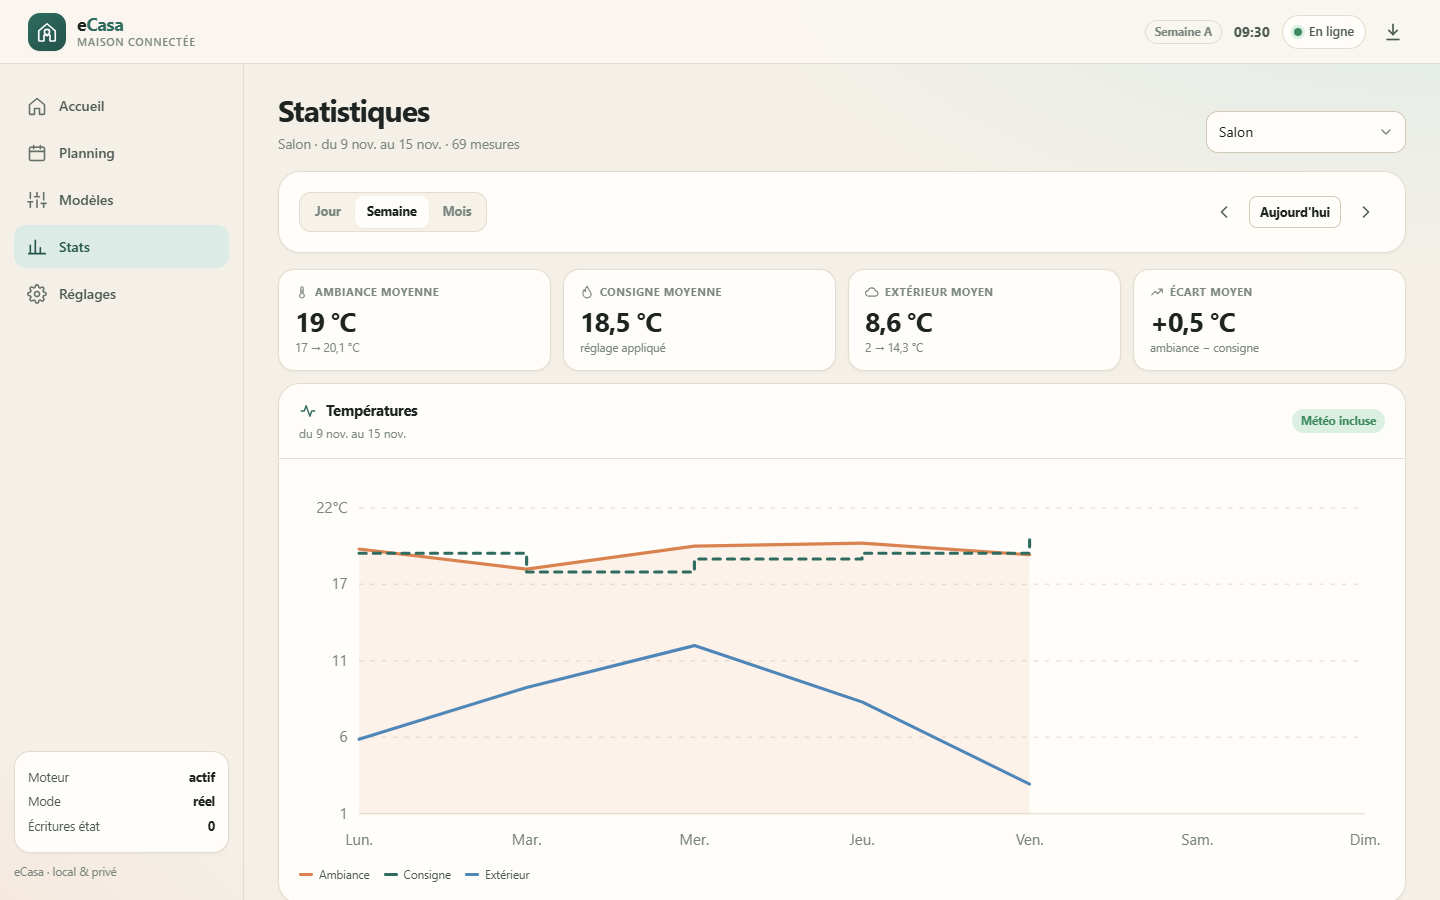
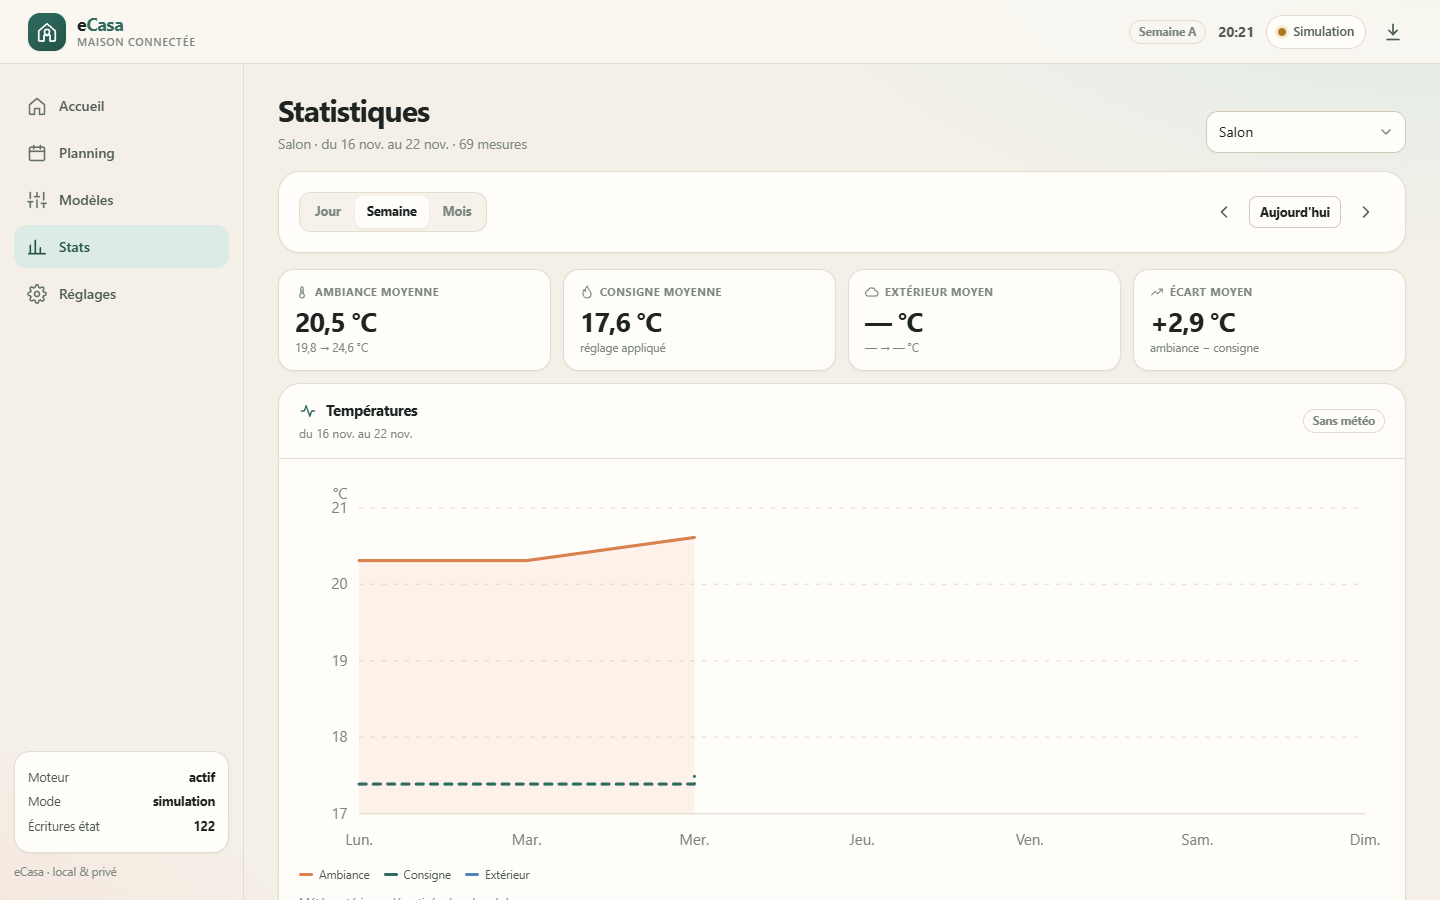
Docs: captures anonymes régénérées sur simulation + documentation alignée
- capture.mjs: 7e capture (calendrier d'accueil), attente du contenu Pronote, service worker neutralisé (rechargement en cours de capture), clip en coordonnées page + captureBeyondViewport (captures d'élément vides ou décalées avant)
- screenshots: 7 images régénérées sur instance de simulation (Salon/Bureau/Chambre, consommation fictive) — fin des données réelles (prénom, météo, conso) dans le README; home-calendar.png en nouveau
- screenshots/README.md: tailles, contenus et consignes de régénération à jour (avertissement config.json réel)
- README.md + docs: galerie et descriptions alignées sur les évolutions de la session (retour direct Pronote, À date, vue Année complète), balayage données personnelles effectué

diff --git a/README.md b/README.md
@@ -51,9 +51,9 @@ bonnes consignes.
 | **Schneider Wiser** | Découverte du hub sur le réseau local, lecture des plannings, import dans eCasa. |
 | **Autres systèmes** | Daikin (local), Bosch (contrôleur Smart Home), Netatmo et Mitsubishi (MELCloud) : lecture des appareils et envoi de consignes depuis Réglages → Appareils. |
 | **Planning** | Agenda 24 h par pièce, créneaux tactiles, modèles de semaine (enregistrés sur le serveur), copie A↔B, surcharges. |
-| **Pronote** | Import des semaines A et B, mise à jour quotidienne à l'heure choisie (ou désactivée), gestion de la garde alternée. |
+| **Pronote** | Import des semaines A et B, mise à jour quotidienne à l'heure choisie (ou désactivée), gestion de la garde alternée, option « Retour direct » pour les journées sans cours l'après-midi. |
 | **Météo** | Température extérieure Open-Meteo, sans clé d'API. |
-| **Statistiques** | Ambiance / consigne / extérieur, consommation électrique Enedis multi-années. |
+| **Statistiques** | Ambiance / consigne / extérieur, consommation électrique Enedis multi-années (vues jour, semaine, mois, année, option « À date »). |
 | **Journal** | Événements filtrables, recherche, export JSON. |
 | **Sauvegarde** | Export/import complet de l'état et des réglages (interface et scripts). |
 | **Accès distant** | Tailscale intégré (HTTPS, MagicDNS) et application Android (APK signé, accès direct avec VPN Tailscale). |
@@ -169,7 +169,7 @@ Guide détaillé : [docs/installation.md](docs/installation.md).
 | --- | --- |
 | [Installation](docs/installation.md) | Windows, Linux, Raspberry Pi, systemd, PWA, mise à jour, sauvegarde. |
 | [Configuration](docs/configuration.md) | `config.json`, réglages de l'interface, secrets, réseau, stockage. |
-| [Pronote](docs/pronote.md) | Compte, import, semaines A/B, garde alternée, mise à jour automatique. |
+| [Pronote](docs/pronote.md) | Compte, import, semaines A/B, garde alternée, retour direct, mise à jour automatique. |
 | [Équipements](docs/equipements.md) | Atlantic/Cozytouch, climatisation, Wiser, pièces et appareils. |
 | [API HTTP](docs/api.md) | Toutes les routes JSON et les règles de sécurité. |
 | [Dépannage](docs/depannage.md) | Symptômes courants et solutions. |
@@ -181,13 +181,19 @@ Guide détaillé : [docs/installation.md](docs/installation.md).
 | --- | --- | --- |
 | ![Accueil](docs/screenshots/home.png) | ![Planning](docs/screenshots/planning.png) | ![Statistiques](docs/screenshots/stats.png) |
 
-**Consommation électrique** — comparaison des mêmes périodes d'une année sur l'autre,
-via MyElectricalData (Enedis) : Les données sont mises en cache localement (`data/energy.json`) et, en cas d'indisponibilité MyElectricalData/Enedis, les dernières mesures connues restent affichées avec un avertissement.
+**Calendrier de la semaine** — ouvert depuis l'accueil (feuille « Planning · Pièce »),
+les blocs fusionnés remplissent toute leur zone :
+
+![Calendrier d'accueil](docs/screenshots/home-calendar.png)
+
+**Consommation électrique** — vues Jour, Semaine, Mois et Année, avec l'interrupteur
+« À date » : comparaison des mêmes périodes d'une année sur l'autre, via
+MyElectricalData (Enedis). Les données sont mises en cache localement (`data/energy.json`) et, en cas d'indisponibilité MyElectricalData/Enedis, les dernières mesures connues restent affichées avec un avertissement.
 
 ![Consommation électrique](docs/screenshots/stats-consommation.png)
 
-**Réglages → Pronote** — compte, statut scolaire, pièces liées, jour d'alternance et
-mise à jour automatique :
+**Réglages → Pronote** — compte, statut scolaire, retour direct, pièces liées, jour
+d'alternance et mise à jour automatique :
 
 ![Réglages Pronote](docs/screenshots/settings-pronote.png)
 

diff --git a/docs/pronote.md b/docs/pronote.md
@@ -12,11 +12,13 @@ chauffage : confort quand l'enfant est là, réduit quand il est en cours ou abs
    si le compte en gère plusieurs.
 3. Renseigner le **statut scolaire** : `Externe` (rentre déjeuner) ou
    `Demi-pensionnaire` (reste au lycée).
-4. Régler le **trajet** domicile ↔ établissement, l'**heure de lever** et l'**heure
+4. Pour un demi-pensionnaire, activer si besoin **Retour direct** (voir
+   « Journée qui se termine le matin »).
+5. Régler le **trajet** domicile ↔ établissement, l'**heure de lever** et l'**heure
    de coucher**.
-5. Choisir les **pièces liées** et les **semaines** (A, B ou les deux).
-6. Choisir le **jour d'alternance** (voir ci-dessous).
-7. Cliquer sur **Tester la connexion**, puis **Enregistrer**.
+6. Choisir les **pièces liées** et les **semaines** (A, B ou les deux).
+7. Choisir le **jour d'alternance** (voir ci-dessous).
+8. Cliquer sur **Tester la connexion**, puis **Enregistrer**.
 
 L'import nécessite le paquet optionnel `pronotepy` :
 
@@ -38,7 +40,8 @@ Cas particuliers :
 
 - **Demi-pensionnaire** : la journée scolaire est continue (pas de confort le midi).
   Si les cours s'arrêtent avant la fin de la pause déjeuner, l'absence est prolongée
-  jusqu'à 13:30 (l'élève mange à la cantine avant de rentrer).
+  jusqu'à 13:30 (l'élève mange à la cantine avant de rentrer), sauf avec l'option
+  **Retour direct** (voir ci-dessous).
 - **Journée sans cours** : rien n'est écrit, le planning existant est conservé tel
   quel et reste modifiable.
 - **Cours annulés** : Pronote les signale, eCasa les ignore.
@@ -69,16 +72,25 @@ restent **modifiables à la main** dans le Planning : ils ne sont jamais verroui
 
 ### Journée qui se termine le matin
 
-Si le dernier cours se termine avant **13:30** (mercredi type), eCasa n'écrit que le
-**début** de la journée (nuit, lever, cours, retour à la maison). L'après-midi reste
-ton planning.
+Un jour dont le dernier cours se termine avant **13:30** (mercredi type) est
+particulier : eCasa n'écrit par défaut que le **début** de la journée (nuit, lever,
+cours, retour à la maison) et laisse l'après-midi à ton planning. La portée de
+l'import est alors partielle (`prefix`) : seule la première partie du jour est
+remplacée.
 
-L'option `pronote_direct_return` (désactivée par défaut) modifie ce comportement :
-désactivée, la pause de cantine est prolongée jusqu'à 13:30 + trajet pour un
-demi-pensionnaire et l'après-midi reste laissé à ton planning ; activée, l'enfant
-rentre après le dernier cours + trajet, la pièce repasse en confort jusqu'au coucher
-et toute la journée est gérée par Pronote (portée `full`). Le vendredi et le lundi de
-bascule gardent leur logique de garde alternée.
+L'option `pronote_direct_return` (**Réglages → Pronote → Retour direct**, désactivée
+par défaut) change ce comportement pour un **demi-pensionnaire** :
+
+- **désactivée** : l'absence est prolongée jusqu'à **13:30 + trajet** (l'élève mange
+  à la cantine avant de rentrer), puis la pièce repasse en confort ; l'après-midi
+  reste ton planning ;
+- **activée** : pas de prolongation repas/cantine, l'enfant rentre après le
+  **dernier cours + trajet**, la pièce repasse en confort **jusqu'au coucher** et
+  toute la journée est gérée par Pronote (portée `full`).
+
+Pour un **externe**, l'option ne change rien : il rentre déjà déjeuner, il n'y a pas
+de pause cantine à prolonger. Le **vendredi** et le **lundi** de garde alternée
+gardent leur logique propre, quelle que soit l'option.
 
 ## Mise à jour automatique
 

diff --git a/docs/screenshots/README.md b/docs/screenshots/README.md
@@ -7,17 +7,25 @@ consommation sont fictifs, aucune donnée personnelle n'apparaît.
 | Fichier | Contenu | Taille |
 | --- | --- | --- |
 | `home.png` | Accueil : ambiance des pièces, consigne moyenne, prochain changement | 1440 × 900 |
+| `home-calendar.png` | Accueil : feuille « Planning · Pièce », calendrier hebdomadaire (blocs fusionnés sans trous) | 1440 × 900 |
 | `planning.png` | Planning : agenda 24 h d'une pièce sur la semaine B | 1440 × 900 |
 | `stats.png` | Statistiques : KPI et courbes ambiance / consigne / extérieur | 1440 × 900 |
-| `stats-consommation.png` | Carte « Consommation électrique » : comparaison par année | 1128 × 985 |
-| `settings-pronote.png` | Réglages → Pronote (section complète) | 928 × 1371 |
+| `stats-consommation.png` | Carte « Consommation électrique » : vues Jour / Semaine / Mois / Année et interrupteur « À date » | 1128 × 934 |
+| `settings-pronote.png` | Réglages → Pronote (section complète, dont l'interrupteur « Retour direct ») | 928 × 1492 |
 | `mobile-home.png` | Vue mobile (PWA) | 480 × 900 |
 
 ## Refaire les captures
 
 Automatisé : `node docs/screenshots/capture.mjs` (Edge/Chrome headless, port 9333).
 Le script suppose eCasa lancé en simulation (`python -m ecasa.main`) et écrit
-les six captures dans ce dossier. Les tailles sont celles de l'élément capturé.
+les sept captures dans ce dossier. Les tailles sont celles de l'élément capturé.
+
+> ⚠ **Sécurité — ne jamais lancer `python -m ecasa.main` depuis un clone qui contient
+> un `config.json` réel** (identifiants Atlantic/Pronote, PDL, jeton MyElectricalData…).
+> Avant tout lancement, vérifier que `config.json` est absent ou contient `"mock": true`
+> et aucun identifiant. La simulation est **obligatoire** pour obtenir des captures
+> anonymes : une capture prise sur une instance réelle contient prénom, adresse,
+> météo et consommation.
 
 Manuellement (si le script ne convient pas) :
 

diff --git a/docs/configuration.md b/docs/configuration.md
@@ -64,7 +64,7 @@ source de vérité au démarrage et reste modifiable à la main si besoin.
 | `pronote_switch_day` | `monday` | Jour d'alternance : `monday` ou `friday`. |
 | `pronote_room_overrides` | `{}` | Réglages confort/réduit par pièce (`{"1": {"comfort_mode": "cool", "comfort_temp": 24}}`). Les clés absentes héritent des réglages globaux. |
 | `pronote_auto_enabled` | `true` | Mise à jour automatique quotidienne. |
-| `pronote_direct_return` | `false` | Retour direct : un jour sans cours l'après-midi (dernier cours avant 13:30) se termine au dernier cours + trajet puis passe en confort jusqu'au coucher (sans prolongation cantine, journée gérée par Pronote). |
+| `pronote_direct_return` | `false` | Retour direct : un jour sans cours l'après-midi (dernier cours avant 13:30) se termine au dernier cours + trajet puis passe en confort jusqu'au coucher (sans prolongation cantine, journée gérée par Pronote, portée `full`). Sans effet pour un externe. |
 | `pronote_sync_minutes` | `180` (03:00) | Heure de la mise à jour automatique. |
 
 `pronote_room_id` (valeur unique) reste accepté pour la compatibilité avec les anciennes
@@ -132,7 +132,7 @@ configurations.
 | **Semaines A/B** | Mode d'alternance (parité ISO ou aucune), inversion A/B. |
 | **Pièces** | Création, appareils associés, position. |
 | **Appareils** | Atlantic et Wiser, capacités, défauts climatisation. |
-| **Pronote** | Compte, statut scolaire, pièces liées, semaines, jour d'alternance, mise à jour automatique. |
+| **Pronote** | Compte, statut scolaire, retour direct, pièces liées, semaines, jour d'alternance, mise à jour automatique. |
 | **Serveur** | Compte, réseau, port, administration distante. |
 | **Tailscale** | Diagnostic, connexion, publication HTTPS. |
 | **Stockage** | Export/import, état des écritures. |

diff --git a/docs/api.md b/docs/api.md
@@ -83,7 +83,7 @@ Le catalogue (libellés, champs, état) est exposé par `GET /api/meta` (clé
 | GET | `/api/stats?range=day\|week\|month&date=…&room_id=…` | Statistiques thermiques. |
 | GET | `/api/weather` | Météo et température extérieure. |
 | GET | `/api/weather/search?q=…` | Recherche de ville. |
-| GET | `/api/energy?view=day\|week\|month\|year&month=…&refresh=1` | Consommation électrique (cache local `data/energy.json`, repli sur les données locales avec `warning` si MED indisponible). Paramètre optionnel `as_of=1` : à date, les autres années s'arrêtent à la dernière consommation connue de l'année en cours (vues week/month/year ; réponse : champs `as_of` et `as_of_limit`). Sans `as_of`, la vue `year` additionne les années complètes (jusqu'à fin d'année pour les années passées) ; avec `as_of=1`, chaque année s'arrête à la dernière consommation connue de l'année en cours. |
+| GET | `/api/energy?view=day\|week\|month\|year&month=…&refresh=1&as_of=1` | Consommation électrique (cache local `data/energy.json`, repli sur les données locales avec `warning` si MED indisponible). Sans `as_of`, la vue `year` additionne les années complètes (jusqu'à fin d'année pour les années passées). Paramètre optionnel `as_of=1` (« À date ») : chaque année s'arrête à la dernière consommation connue de l'année en cours (vues week/month/year ; la vue day est inchangée ; réponse : champs `as_of` et `as_of_limit`). |
 | POST | `/api/energy/test` | Teste le jeton et le PDL. |
 
 ## Journal, sauvegarde, exploitation

diff --git a/docs/depannage.md b/docs/depannage.md
@@ -28,6 +28,7 @@
 | Le chauffage ne suit pas le planning | Moteur en pause | Réglages → Moteur → activer, puis « Appliquer ». |
 | Consigne non appliquée | Appareil en forçage | Annuler le forçage (il expire tout seul). |
 | Créneaux verrouillés dans le Planning | Jour géré par Pronote | Import partiel : seuls les créneaux Pronote sont verrouillés ; le reste est modifiable. |
+| Trous dans le calendrier de l'accueil | Ancienne feuille de style encore en cache (service worker) | Mettre à jour eCasa, puis forcer le rechargement de l'application (vider le cache du service worker). |
 | La semaine A ne change pas | Mode d'alternance | Réglages → Semaines A/B : parité ISO ou « Pas d'alternance ». |
 | Modèles disparus après nettoyage navigateur | Anciens modèles stockés localement | Les modèles sont désormais enregistrés côté serveur (`data/state.json`) via le bouton « Enregistrer » de la page Modèles ; ils sont migrés automatiquement au premier chargement si présents sur l'appareil. |
 | « La consigne n'a pas été confirmée » | Ordre Atlantic lent | C'est un **avertissement**, pas une erreur : l'ordre est généralement appliqué avec du retard. |

diff --git a/docs/equipements.md b/docs/equipements.md
@@ -106,6 +106,7 @@ Côté API : `GET /api/connectors/{id}/devices` et `POST /api/connectors/{id}/ap
 Le planning est un agenda 24 h par pièce, sur deux semaines (**A** et **B**) :
 
 - créer, déplacer, supprimer un créneau ;
+- consulter le **calendrier hebdomadaire** d'une pièce depuis l'accueil (feuille « Planning · Pièce ») ;
 - dupliquer un jour ou une semaine ;
 - copier la semaine A vers B (et inversement) ;
 - enregistrer des **modèles** de semaine réutilisables (persistés côté serveur dans `data/state.json`, bouton « Enregistrer » sur la page Modèles pour sauvegarder l'ensemble des modifications) ;
